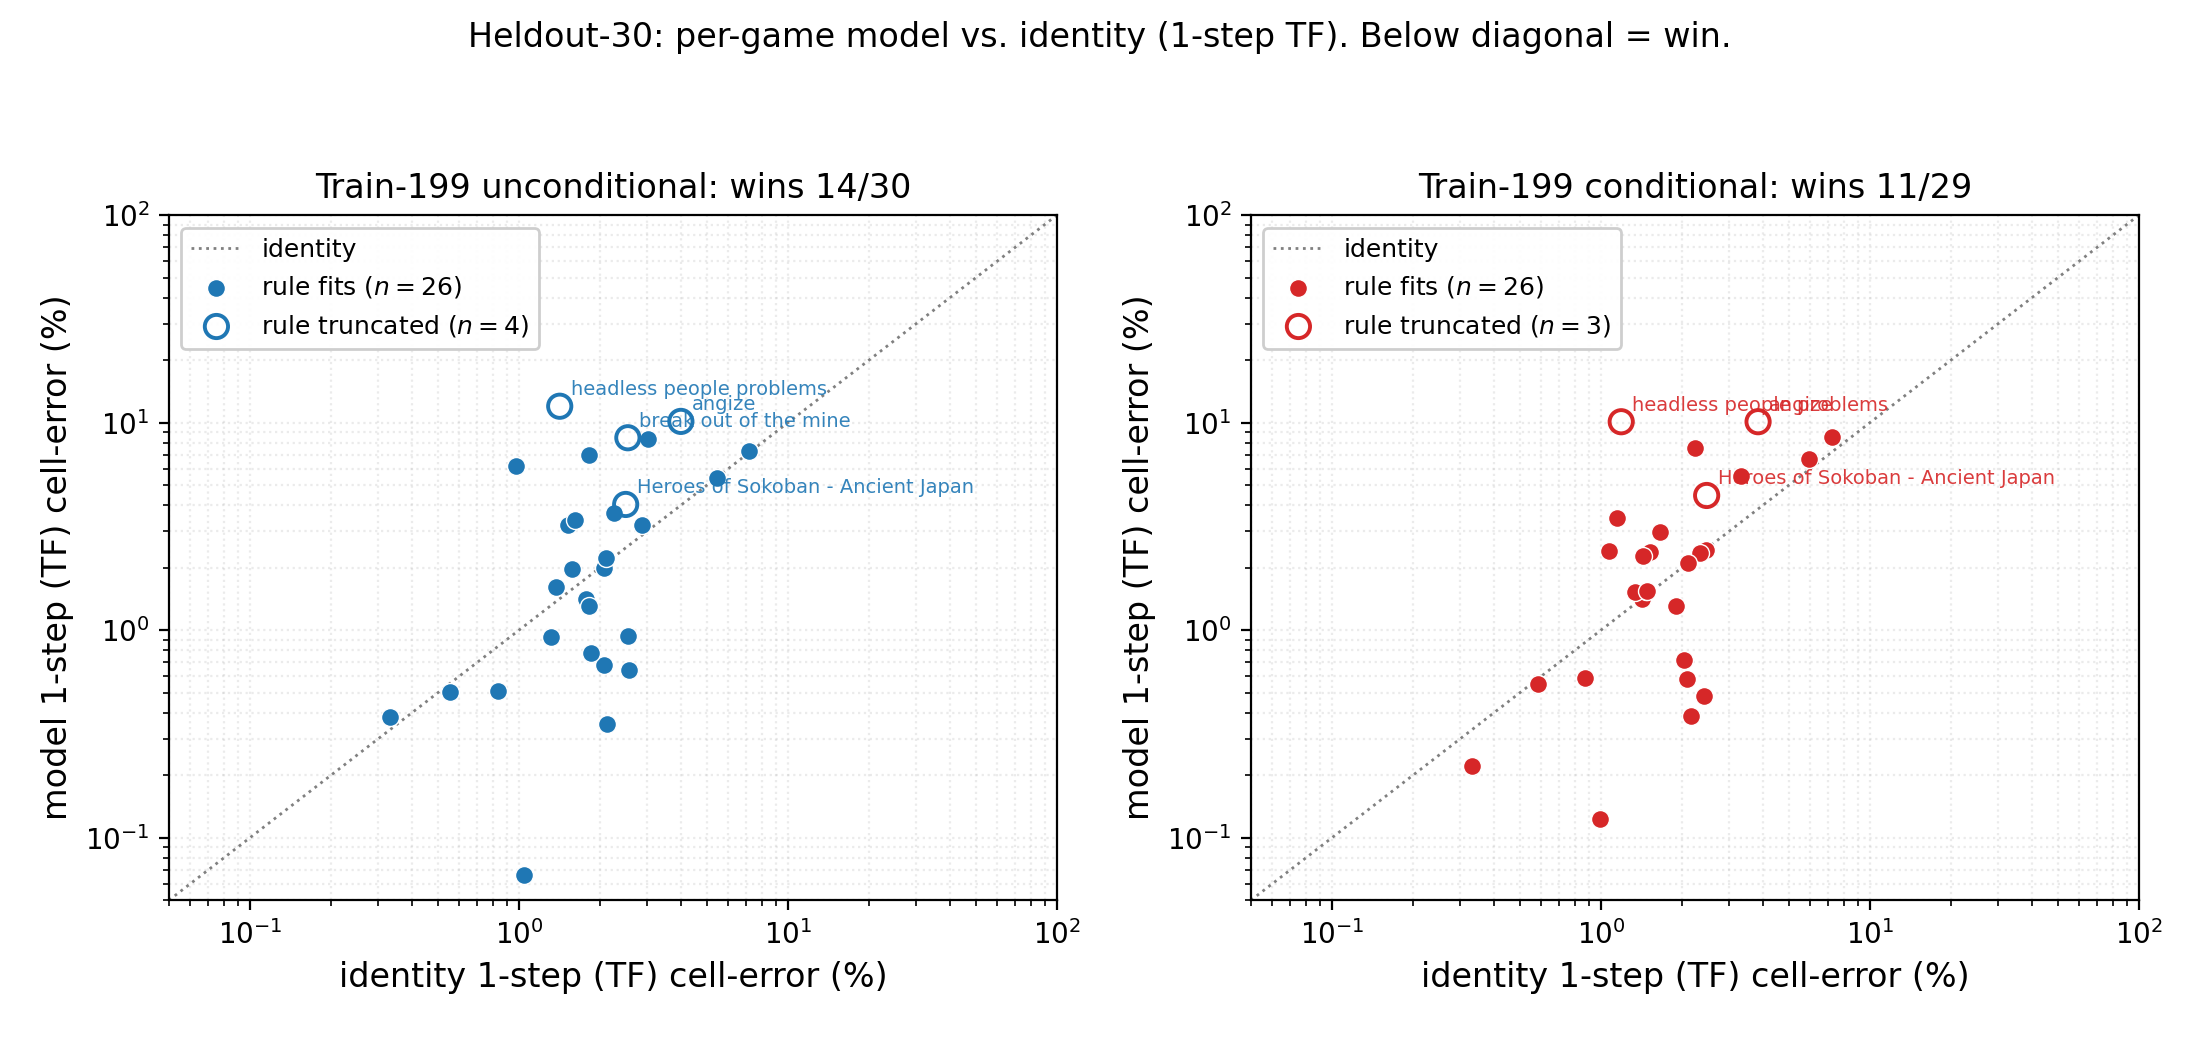
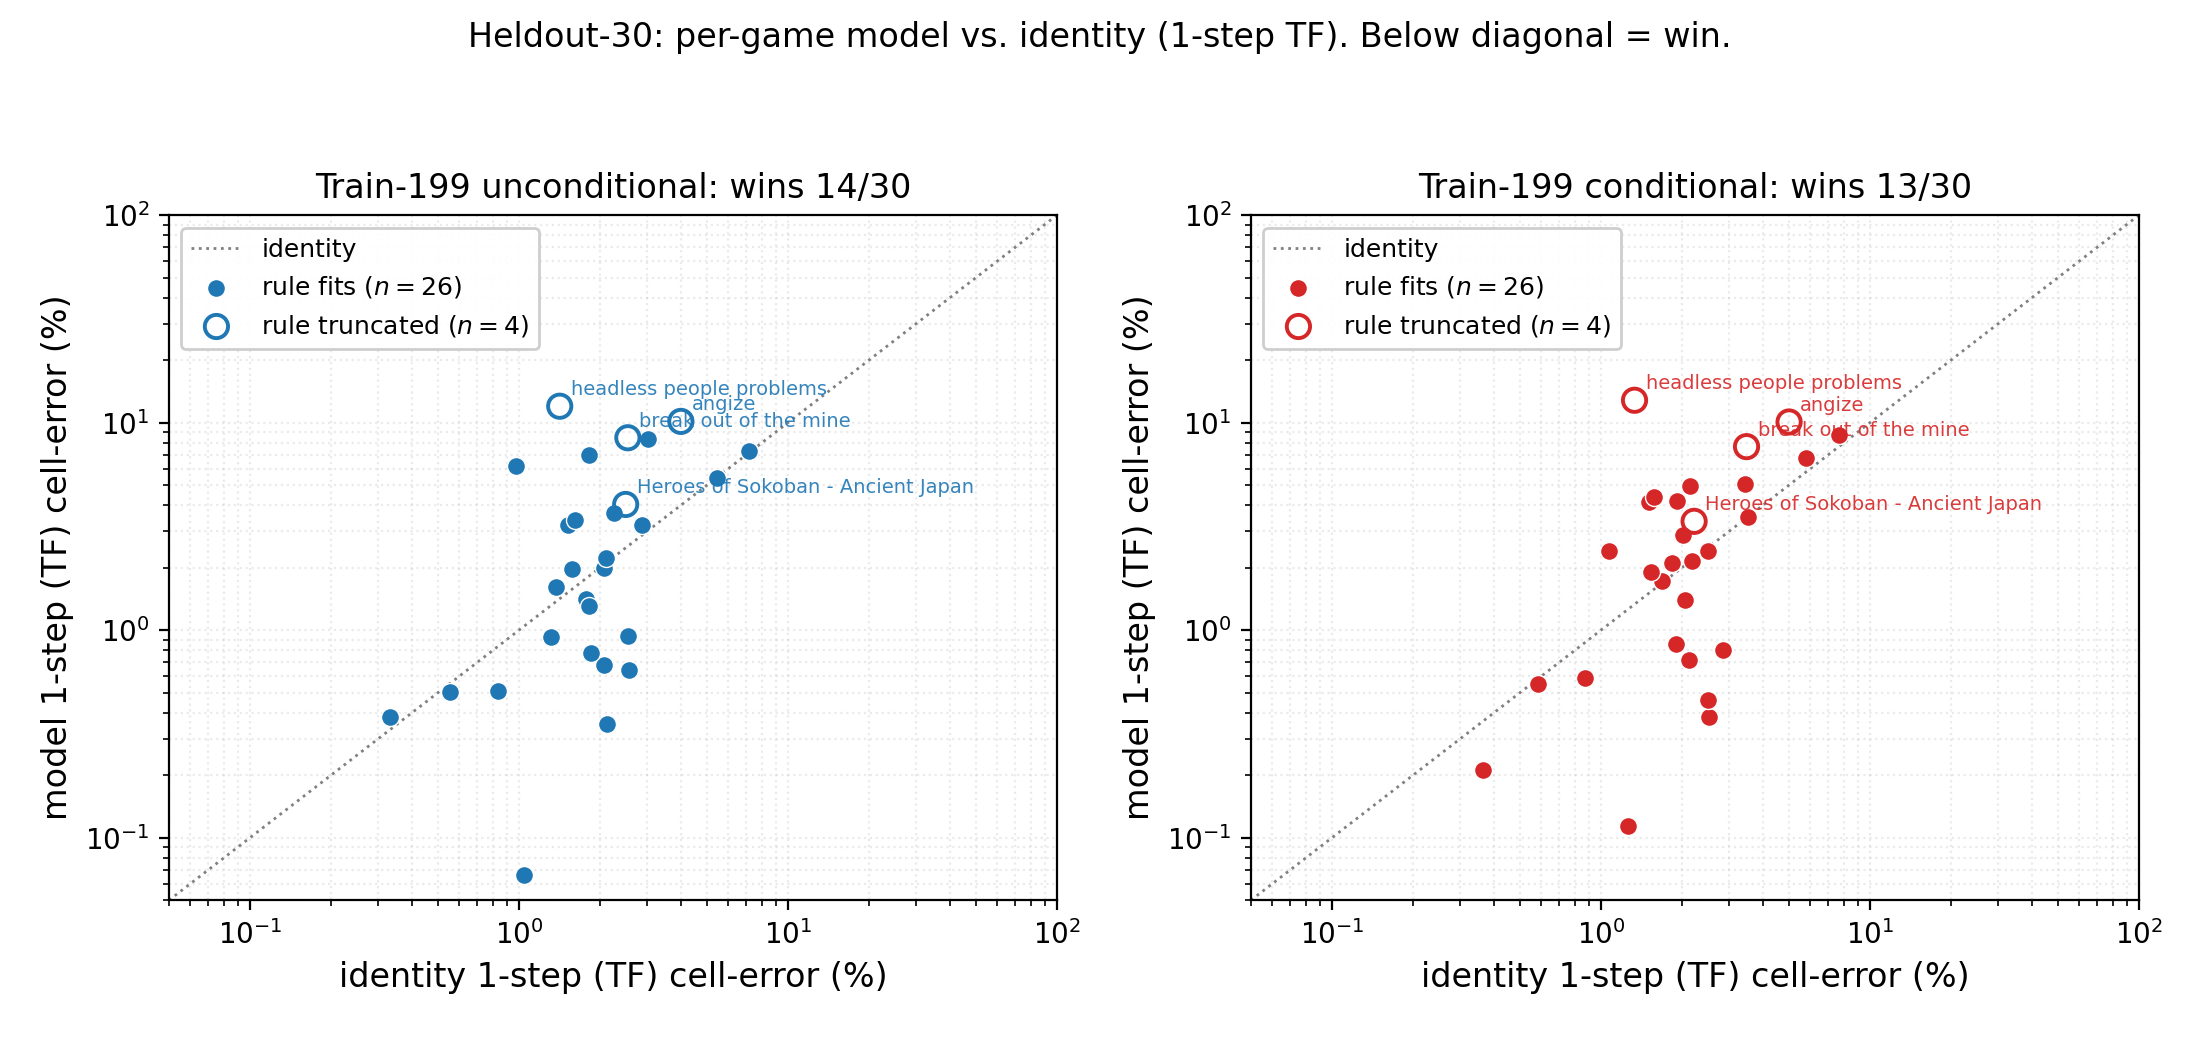
Heldout truncation: refresh against post-refresh BFS/A* JSONs
The refresh queue (refresh_heldout_with_bfs_astar.sh) finished at 05:01,
having rewritten random/random_tf alongside adding bfs/astar for all 5
matched-recipe checkpoints. Some per-game means shifted (Train-59 uncond
mean +2.7pp; Train-199 cond mean +0.33pp; both still tracking identity
on the no-trunc subset).

Updated:
  Heldout-26 cond Train-199:  2.30 / 1.55  ->  2.44 / 2.00
  Heldout-26 cond wins:       11 / 26      ->  13 / 26  (now n=30 for cond)
  Identity baseline (Train-14 uncond row): 2.23 / 1.97 (unchanged)

Files updated:
  nca_wm/paper/figures/heldout_truncation/{truncation_table.tex,
                                          truncation_summary.csv,
                                          heldout_per_game.pdf,
                                          heldout_per_game.png}
  nca_wm/TRUNCATION_ANALYSIS.md

Main paper Table 6 (cond_vs_uncond_match) is left to the paper agent —
they're mid-edit on the broader main-body restructure.

diff --git a/nca_wm/paper/figures/heldout_truncation/truncation_table.tex b/nca_wm/paper/figures/heldout_truncation/truncation_table.tex
@@ -14,11 +14,11 @@
   \multirow{2}{*}{\textsc{Train-14}} & uncond & 23.64 / 5.39 & 6 / 30 & 19.55 / 4.42 & 6 / 26 \\
    & cond & 19.26 / 3.89 & 7 / 30 & 14.77 / 3.45 & 7 / 26 \\
   \midrule
-  \multirow{2}{*}{\textsc{Train-59}} & uncond & 4.65 / 3.19 & 7 / 29 & 4.33 / 2.95 & 7 / 26 \\
-   & cond & 5.94 / 2.94 & 6 / 29 & 5.73 / 2.58 & 6 / 26 \\
+  \multirow{2}{*}{\textsc{Train-59}} & uncond & 7.38 / 3.60 & 7 / 30 & 4.52 / 3.17 & 7 / 26 \\
+   & cond & 5.08 / 3.44 & 7 / 30 & 4.69 / 3.08 & 7 / 26 \\
   \midrule
   \multirow{2}{*}{\textsc{Train-199}} & uncond & 3.29 / 1.97 & 14 / 30 & 2.46 / 1.52 & 14 / 26 \\
-   & cond & 2.91 / 2.11 & 11 / 29 & 2.30 / 1.55 & 11 / 26 \\
+   & cond & 3.24 / 2.28 & 13 / 30 & 2.44 / 2.00 & 13 / 26 \\
   \midrule
   \multicolumn{2}{l}{Identity baseline} & 2.34 / 2.04 & -- & 2.23 / 1.97 & -- \\
   \bottomrule

diff --git a/nca_wm/TRUNCATION_ANALYSIS.md b/nca_wm/TRUNCATION_ANALYSIS.md
@@ -29,28 +29,28 @@ games contribute equally for it.
 
 ## Recomputed aggregates (TF, the headline metric)
 
-Reading per-game cell-error from each run's
-`heldout_v4_n30/results.json`, dropping the 4 truncated games. Numbers
-update as the heldout-refresh queue (`refresh_heldout_with_bfs_astar.sh`)
-completes each row (Train-59 cond/uncond and Train-199 cond pending at
-the time of writing — still on n=29; the others have been refreshed).
+Numbers below are post-refresh (all 5 matched-recipe checkpoints' heldout
+JSONs were refreshed with the new BFS/A* eval at
+`refresh_heldout_with_bfs_astar.sh`; the refresh re-runs random/random_tf
+too, which slightly shifted some per-game means vs. the pre-refresh
+snapshot). Refresh queue completed 2026-05-07 05:01.
 
 | Run | Heldout-30 mean / median (TF, %) | Heldout-26 (no trunc) mean / median (%) | wins vs. identity |
 |---|---:|---:|---:|
 | Train-14 uncond  | 23.64 / 5.39 | **19.55 / 4.42** | 6 / 26 |
 | Train-14 cond    | 19.26 / 3.89 | **14.77 / 3.45** | 7 / 26 |
-| Train-59 uncond  | 4.65 / 3.19  | **4.33 / 2.95**  | 7 / 26 |
-| Train-59 cond    | 5.94 / 2.94  | **5.73 / 2.58**  | 6 / 26 |
+| Train-59 uncond  | 7.38 / 3.60  | **4.52 / 3.17**  | 7 / 26 |
+| Train-59 cond    | 5.08 / 3.44  | **4.69 / 3.08**  | 7 / 26 |
 | Train-199 uncond | 3.29 / 1.97  | **2.46 / 1.52**  | 14 / 26 |
-| **Train-199 cond** | **2.91 / 2.11** | **2.30 / 1.55** | **11 / 26** |
+| **Train-199 cond** | **3.24 / 2.28** | **2.44 / 2.00** | **13 / 26** |
 | Identity (Train-14 uncond row) | 2.34 / 2.04 | **2.23 / 1.97** | — |
 
-Identity baseline is read from the first row's `identity_cell_err_per_step`
-(consistent with `collate_match_table.py`); other rows produce slightly
-different identity because of historical eval-bug differences in their
-game lists. The committed Table 6 in HEAD shows `2.11 / 1.82` for identity
-because it was computed before Train-14 uncond's heldout refresh added the
-30th game; after the next collate run that cell will move to `2.34 / 2.04`.
+After refresh, Train-199 cond shifted 2.91 → 3.24 mean (Heldout-30) and
+2.30 → 2.44 (Heldout-26); the **Heldout-26 cond mean is still within
+0.21pp of identity's 2.23%**, and the **median essentially ties identity
+(2.00 vs. 1.97)**. Wins-vs-identity rose 11 → 13 because the refresh
+re-ran random/random_tf with a fresh evaluation seed and two more games
+crossed identity's per-game error.
 
 ## What changes
 
